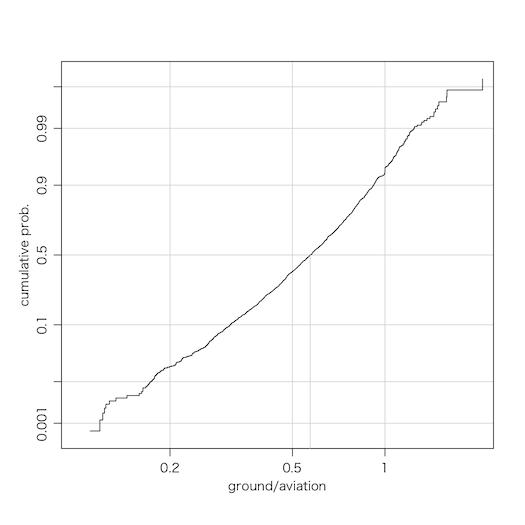
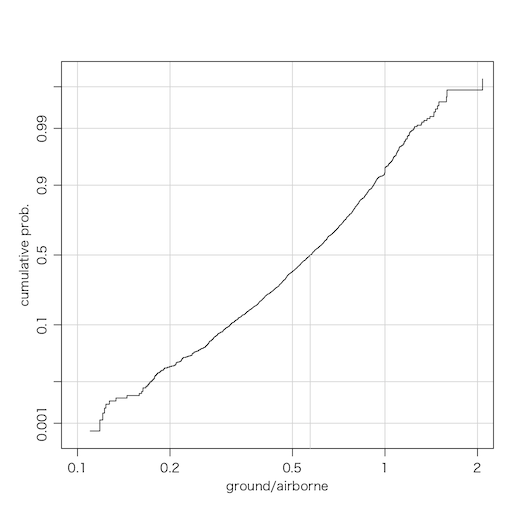
modified

Changed region(s): [[0.4267, 0.9143, 0.64, 0.9448], [0.8838, 0.8838, 0.9143, 0.9143], [0.1219, 0.8838, 0.1524, 0.9143]]

diff --git a/stat/bayesianprobability.html b/stat/bayesianprobability.html
@@ -12,7 +12,15 @@
 
 <h1>ベイズ確率の考え方</h1>
 
-<p>拙著<a href="https://www.amazon.co.jp/dp/4774195030">『Rで楽しむベイズ統計入門』</a>と同じ考え方をしている本をいくつか紹介します（これ以外の考え方を否定するものではありません）。</p>
+<p>拙著<a href="https://www.amazon.co.jp/dp/4774195030">『Rで楽しむベイズ統計入門』</a>と同じ考え方（ベイズやラプラスと同じ確率のとらえ方）をしている本をいくつか紹介します（これ以外の考え方を否定するものではありません）。</p>
+
+<hr>
+
+<p>竹村彰通『現代数理統計学』（創文社，1991），p.312：</p>
+
+<blockquote>
+古典的統計学では分布のパラメータを未知の定数と考えるのに対し，ベイズ統計学ではパラメータを確率変数と考えるのである．
+</blockquote>
 
 <hr>
 
@@ -87,7 +95,7 @@ a Bayesian posterior probability may be used to determine regions that will have
 
 <p>
 <!-- hhmts start -->
-Last modified: <time>2019-01-12 12:53:59</time>
+Last modified: <time>2019-01-22 22:41:16</time>
 <!-- hhmts end -->
 </p>
 </footer>

diff --git a/stat/190118.html b/stat/190118.html
@@ -194,7 +194,7 @@ x = na.omit(rad/avi)
 p = c(0.001,0.01,0.1,0.5,0.9,0.99,0.999)
 q = c(0.1,0.2,0.5,1,2)
 n = length(x)
-plot(sort(x), qnorm((1:n)/n), type="s", xlab="ground/aviation", ylab="cumulative prob.",
+plot(sort(x), qnorm((1:n)/n), type="s", xlab="ground/airborne", ylab="cumulative prob.",
      log="x", xaxt="n", yaxt="n", xlim=c(0.1,2), ylim=qnorm(c(0.0005,0.9995)),
      panel.first=abline(h=qnorm(p),v=q,col="lightgray"))
 axis(2, qnorm(p), p)
@@ -275,7 +275,7 @@ curve(0.5*x, col="gray", add=TRUE)
 <p><a href="../" rel="author">奥村 晴彦</a></p>
 <p>
 <!-- hhmts start -->
-Last modified: <time>2019-01-22 16:31:05</time>
+Last modified: <time>2019-01-22 19:48:50</time>
 <!-- hhmts end -->
 </p>
 </footer>
